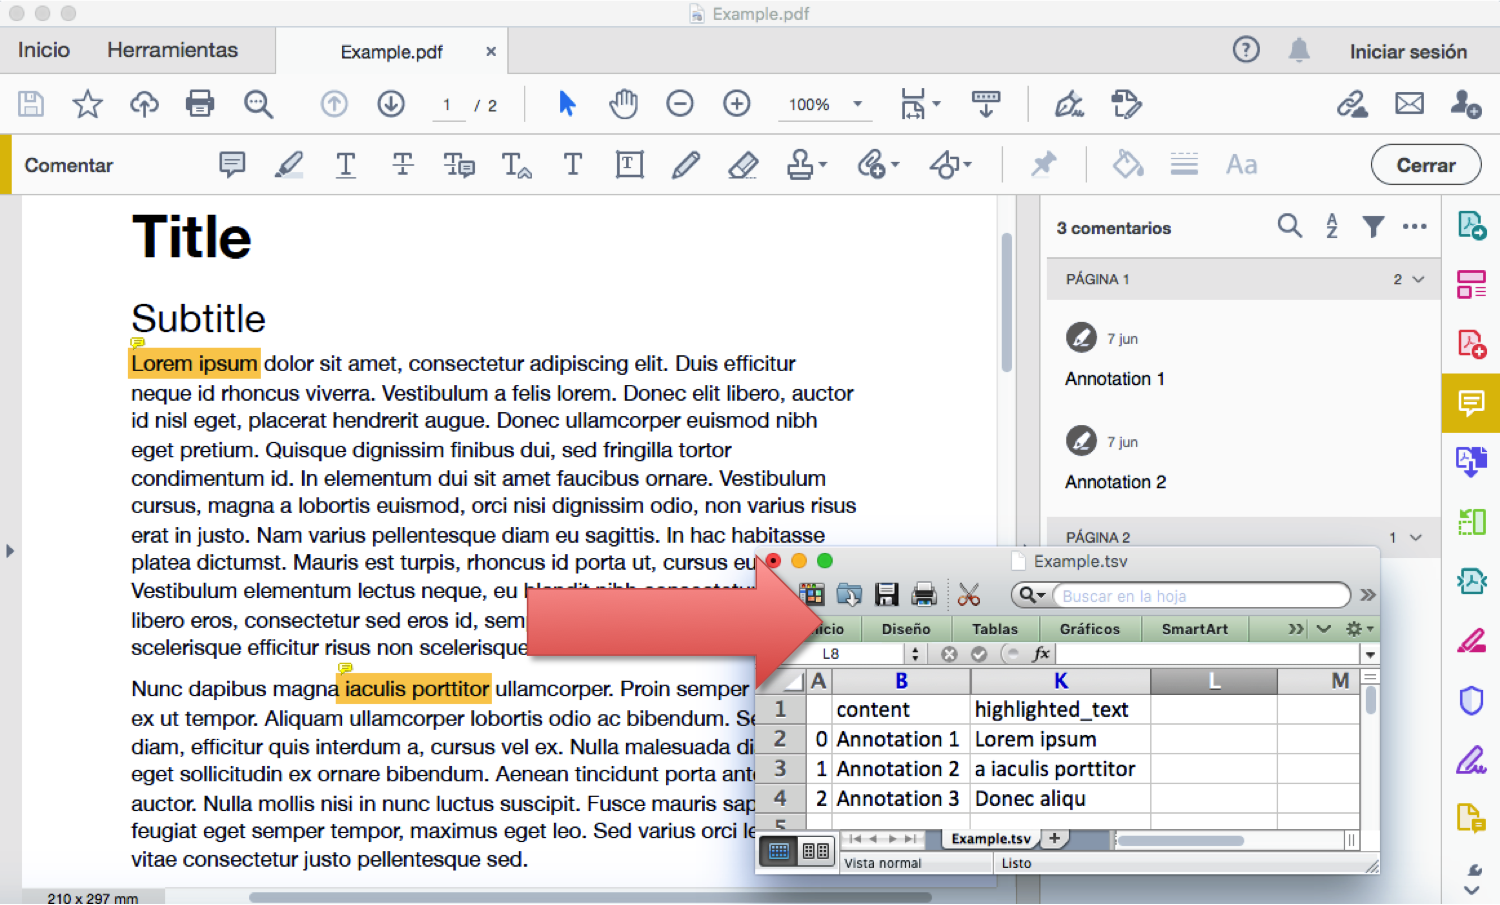
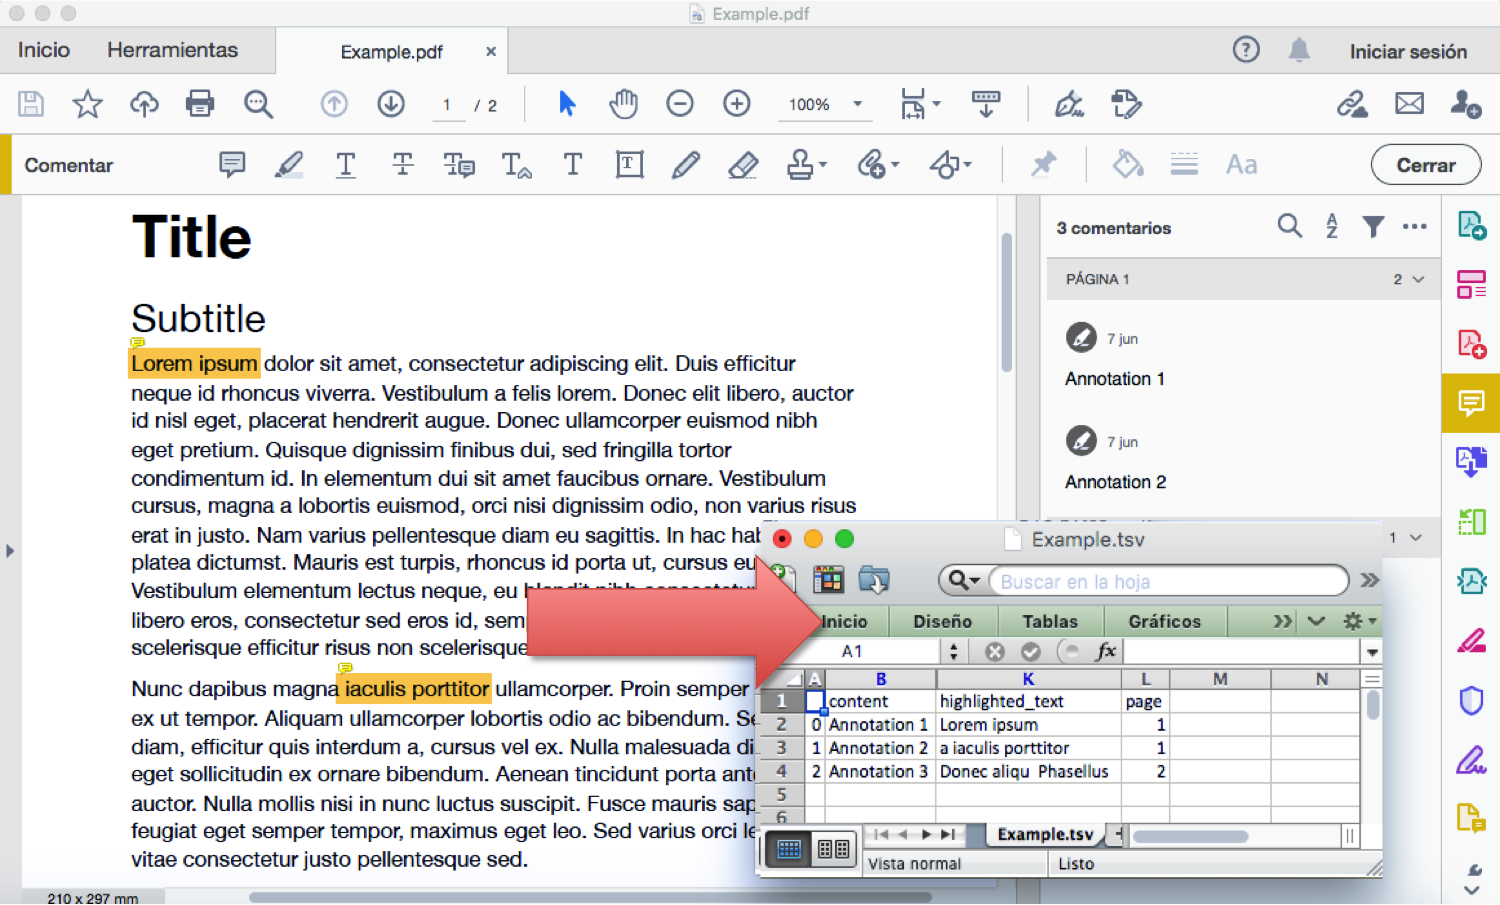
Add page number

Changed region(s): [[0.4907, 0.5569, 0.92, 0.9901]]

diff --git a/extract_comments_from_pdf.py b/extract_comments_from_pdf.py
@@ -13,7 +13,7 @@ def extract_annotations(input_file: Path) -> list:
     doc = fitz.open(input_file)
 
     annotations = []
-    for page in doc:
+    for i, page in enumerate(doc):
         for annot in page.annots():
             info = annot.info
             colors = annot.colors
@@ -21,6 +21,7 @@ def extract_annotations(input_file: Path) -> list:
             highlighted_text = page.get_textbox(rect)
             annot_data = {**info, **colors}
             annot_data['highlighted_text'] = highlighted_text
+            annot_data['page'] = i + 1  # zero-index
             annotations.append(annot_data)
 
     return annotations
